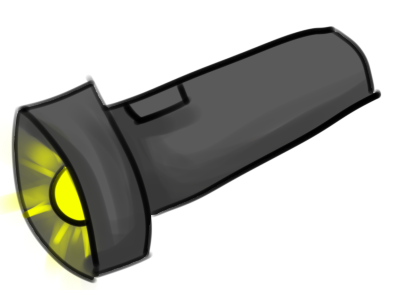
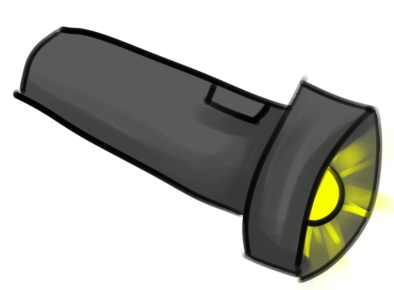
made flashlight and snorkel able to be equipped

diff --git a/Scuba/Divers.py b/Scuba/Divers.py
@@ -988,16 +988,16 @@ def Level8():
     global Islandbutton
     global Shelves
     global equipment
+    global ShopSnorkel
+    global ShopFlashlight
     pygame.mouse.set_visible(1)
     draw(Shelves)
     
-    ShopSnorkel = [Snorkel[0][0], 245, 330, 100, 100, 0, 0, True]  # list = [image, x pos, y pos, x size, y size, x speed, y speed, right]
     if equipment[0] == 0:
         draw(ShopSnorkel)
     if clicked(ShopSnorkel):
         equipment[0] = 1
         
-    ShopFlashlight = [Flashlight[0][0], 500, 330, 100, 100, 0, 0, True]  # list = [image, x pos, y pos, x size, y size, x speed, y speed, right]
     if equipment[10] == 0:
         draw(ShopFlashlight)
     if clicked(ShopFlashlight):
@@ -1013,10 +1013,15 @@ def nothing():
 ### Equipment #####
 equipment = [0, 0, 0, 0, 0, 0, 0, 0, 0, 0, 0, 0, 0, 0]  
 # Snorkel, Goggles, BCD, Fins, Regulator, Extra Regulator, Air Tank, Gauges, Wetsuit, Drysuit, Slate, Flashlight, Glowstick, Underwater Scooter 
-Snorkel = [[pygame.image.load("Snorkel.png"), 0, 0, 100, 100, 0, 0, True], # 0
-           [pygame.image.load("Snorkel.png"), 0, 0, 100, 100, 0, 0, True]]
 
-Flashlight = [[pygame.image.load("Flashlight.png"), 0, 0, 100, 100, 0, 0, True], # 10
+ShopSnorkel = [pygame.image.load("Snorkel.png"), 245, 330, 100, 100, 0, 0, True] # 0
+
+Snorkel = [[pygame.transform.rotate(pygame.image.load("Snorkel.png"), -30), 0, 0, 100, 100, 0, 0, True], # 0
+           [pygame.transform.rotate(pygame.image.load("Snorkel.png"), -30), 0, 0, 100, 100, 0, 0, True]]
+
+ShopFlashlight = [pygame.image.load("Flashlight.png"), 500, 330, 100, 100, 0, 0, True] # 11
+
+Flashlight = [[pygame.image.load("Flashlight.png"), 0, 0, 100, 100, 0, 0, True], # 11
               [pygame.image.load("Flashlight.png"), 0, 0, 100, 100, 0, 0, True]]
 #######################
 Orangediver = [pygame.image.load("Orangediver.png"), 200, 200, 224, 188, 10, 10, True]
@@ -1286,7 +1291,7 @@ while done == False:
             wintime = 0
             
             Boat = [[pygame.image.load("Boat.png"), 100, -400, 800, 500, 0, 0, True, False]]
-            Treasurechest = [[pygame.image.load("Treasurechest.png"), x_max - x_max/2, y_max + 145, 250, 200, 0, 0, True, False]]
+            Treasurechest = [[pygame.image.load("Treasurechest.png"), x_max - x_max/2, y_max + 120, 250, 200, 0, 0, True, False]]
             
             eelskilled = False
             bubbleskilled = False
@@ -1432,8 +1437,41 @@ while done == False:
                 Greendiver[7] = Orangediver[7]
                 Greendiver = move(Greendiver, 0, -5)
                 Orangediver = move(Orangediver, 0, -5)
-       
-       
+        ######### Equipment coordinates ############
+        if orangedead == False:
+            Snorkel[0][7] = Orangediver[7]
+            Snorkel[0][3] = 75
+            Snorkel[0][4] = 75
+            Snorkel[0][2] = Orangediver[2] - 10
+            Flashlight[0][7] = Orangediver[7]
+            Flashlight[0][3] = 60
+            Flashlight[0][4] = 40
+            Flashlight[0][2] = Orangediver[2] + 107
+            
+            if Orangediver[7] == True:
+                Snorkel[0][1] = Orangediver[1] + Orangediver[3] - Snorkel[0][3] - 10
+                Flashlight[0][1] = Orangediver[1] + Orangediver[3] - Flashlight[0][3] - 55
+            else:
+                Snorkel[0][1] = Orangediver[1] + 10
+                Flashlight[0][1] = Orangediver[1] + 55
+        Snorkel[1][7] = Greendiver[7]
+        Snorkel[1][3] = 75
+        Snorkel[1][4] = 75
+        Snorkel[1][2] = Greendiver[2] - 10
+        Flashlight[1][7] = Greendiver[7]
+        Flashlight[1][3] = 60
+        Flashlight[1][4] = 40
+        Flashlight[1][2] = Greendiver[2] + 107
+        
+        if Greendiver[7] == True:
+            Snorkel[1][1] = Greendiver[1] + Greendiver[3] - Snorkel[1][3] - 10
+            Flashlight[1][1] = Greendiver[1] + Greendiver[3] - Flashlight[1][3] - 55
+        else:
+            Snorkel[1][1] = Greendiver[1] + 10
+            Flashlight[1][1] = Greendiver[1] + 55
+
+                
+        #####################################################
         rowdraw(Boat, 0)        
         for n in range(10):
             if greenrise == False:
@@ -1526,14 +1564,33 @@ while done == False:
             deadfont = pygame.font.SysFont("monospace", 100, "bold")
             deadtext = deadfont.render('YOU DEAD!', 1, (255, 255, 0))
             screen.blit(deadtext, (250, 100))
-        
+            
+        if equipment[0] == 1: 
+            if Orangediver[7]: ## Behind
+                if orangedead == False:
+                    rowdraw(Snorkel, 0)
+            if Greendiver[7]:
+                rowdraw(Snorkel, 1)
+                
         animatedgreen()
         movebubbles(Greendiver, 4, 40)
-    
+        
+        if equipment[0] == 1:
+            if Greendiver[7] == False: ## In front
+                rowdraw(Snorkel, 1)
+        if equipment[10] == 1:
+            rowdraw(Flashlight, 1)
+            
         animatedorange()
         if orangedead == False:
             movebubbles(Orangediver, 0, 0)
-    
+            
+        if equipment[0] == 1 and orangedead == False:
+            if Orangediver[7] == False: ## In front
+                rowdraw(Snorkel, 0)
+        if equipment[10] == 1 and orangedead == False:
+            rowdraw(Flashlight, 0)
+      
         if greenrise == False:
             binddiver()
         
@@ -1550,6 +1607,9 @@ while done == False:
                 eeldeadfont = pygame.font.SysFont("monospace", 30, "bold")
                 eeldeadtext = eeldeadfont.render('Watch out for dangerous fish.', 1, (255, 255, 0))
                 screen.blit(eeldeadtext, (200, 450))
+                
+        
+    
 
 #### Level Gameplay
 ################# Outer Banks Level 1 ###############################
